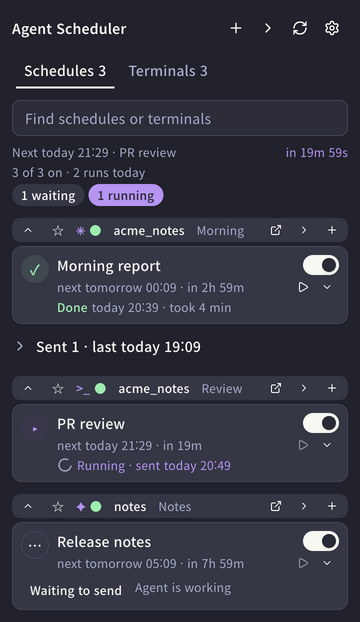
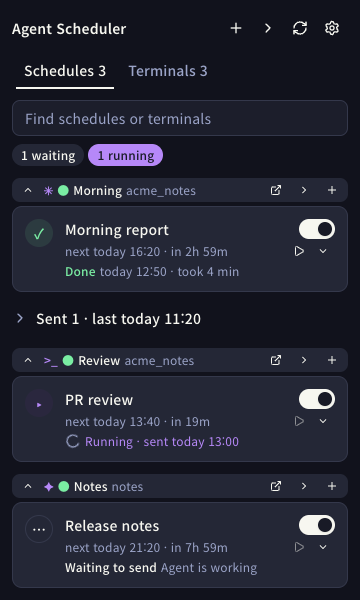
docs: 0.12.11 — README 와 그림을 지금 패널에 맞춤(동작 변화 없음)
- 그림: README 2장과 플러그인 페이지 표지 · 스크린샷 2장이 0.12.1 화면이었다 — 목록 위 글 두 줄(0.12.5 에서 뺌),
  터미널 줄의 ☆(0.12.7 에서 뺌), 작업 폴더를 제목보다 먼저 쓰던 순서(0.12.9 에서 바꿈)가 그대로 보였다.
  장면 open · first · late · korean 을 360px 어두운 테마로 다시 찍고 표지 · 갤러리를 다시 그렸다.
- README 에 빠져 있던 것: 실행 중인 예약은 터미널을 바꿀 수 없음 · 시간 구간은 자정을 넘지 못함 ·
  지난 기록은 최근 30회 · 알림이 나가는 경우 전부 · 스스로 네트워크 요청을 하지 않음 · 제거 명령 · 라이선스 절.
- 표현: 영어 관용 표현 16곳을 쉬운 말로 바꿈. 업데이트 명령이 연달아 두 번 나오던 것을 한 번으로,
  CLI 경로 표기를 한 가지로, `=` 로 붙이는 대상을 「터미널과 프롬프트」로 정정.

코드는 바뀌지 않았다. 시험 196개 · 장면 점검 8개 통과.

diff --git a/README.md b/README.md
@@ -15,9 +15,9 @@ The panel in Orca's right sidebar: schedules grouped by terminal, and the introd
 orca plugin install gook-lab/orca-agent-scheduler
 ```
 
-**macOS only for now**, and Orca 1.4.248 or newer. Prompts go out through the CLI inside the Orca app (`<Orca>.app/Contents/Resources/bin/orca`); on Windows and Linux the plugin does not look for it yet, and the panel says `Orca CLI not found` instead of listing terminals. Orca asks you to approve what the plugin may do before it runs: a worker on your machine that calls the Orca CLI to send prompts, reads terminal output, agent status and your workspaces, keeps its own storage and shows notifications. Updates: `orca plugin update gook-lab.agent-scheduler`.
+**macOS only for now**, and Orca 1.4.248 or newer. Prompts go out through the CLI inside the Orca app (`<Orca>.app/Contents/Resources/bin/orca`); on Windows and Linux the plugin does not look for it yet, and the panel says `Orca CLI not found` instead of listing terminals. Orca asks you to approve what the plugin may do before it runs: a worker on your machine that calls the Orca CLI to send prompts, reads terminal output, agent status and your workspaces, keeps its own storage and shows notifications.
 
-Update with `orca plugin update gook-lab.agent-scheduler`. What each version changed is in the [release notes](https://github.com/gook-lab/orca-agent-scheduler/releases) (each with a summary in Korean) — **What's new** in the panel's Settings opens them — and in [CHANGELOG.md](CHANGELOG.md).
+Update with `orca plugin update gook-lab.agent-scheduler`, and remove it with `orca plugin uninstall gook-lab.agent-scheduler`. What each version changed is in the [release notes](https://github.com/gook-lab/orca-agent-scheduler/releases) (each with a summary in Korean) — **What's new** in the panel's Settings opens them — and in [CHANGELOG.md](CHANGELOG.md).
 
 The panel follows Orca's language: Korean when Orca is in Korean, English otherwise. Settings (the gear at the top) can fix it to English or Korean; the status bar and notifications follow.
 
@@ -26,8 +26,9 @@ The panel follows Orca's language: Korean when Orca is in Korean, English otherw
 A schedule belongs to one terminal you already have open, in any workspace. The terminal list in the form shows only terminals where Orca sees an agent running: the terminal title, then the workspace and the agent. A plain shell is never offered and never sent to. Opened from a terminal line, Edit or Duplicate, the form shows that terminal on one line with **Change**; the list opens only when you press it, and folds again once you pick.
 
 - Orca restarts give terminals new handles. The schedule finds its terminal again by its pane. A terminal that was closed shows as `not open`; the run waits, and you pick another terminal by editing the schedule.
-- Orca now and then drops a working terminal's agent for a second or two. A terminal keeps the agent it was last seen with for two checks (1 minute), so it stays in the list and the form; nothing is sent on that alone — the screen still has to show that agent's input box.
-- **Start a new conversation** (schedules only) sends `/clear` first, then the prompt once the screen settles, so each run starts fresh instead of piling onto the last one. Claude Code, Codex and Gemini CLI all read `/clear` as a new conversation. Turn it on only for a terminal kept for that schedule — `/clear` erases the conversation in it.
+- Orca occasionally drops a working terminal's agent for a second or two. A terminal keeps the agent it was last seen with for two checks (1 minute), so it stays in the list and the form; nothing is sent on that alone — the screen still has to show that agent's input box.
+- **Start a new conversation** (schedules only) sends `/clear` first, then the prompt once the screen settles, so each run starts in a new conversation instead of adding to the last one. Claude Code, Codex and Gemini CLI all read `/clear` as a new conversation. Turn it on only for a terminal kept for that schedule — `/clear` erases the conversation in it.
+- A schedule keeps its terminal while its run is going. The end of a run is read from the terminal the prompt went to, so the form lets you change the terminal once the run has ended; every other field can be edited meanwhile.
 
 ## Sending — idle check, then the Orca CLI
 
@@ -43,13 +44,13 @@ At the set time the run becomes due and is checked every 30 seconds. The prompt 
 
 A run that waits more than 60 minutes is skipped, with the reason it was waiting.
 
-**Send now** (▷ on a card) and **Send once** are asked for by a person who is looking at the terminal. For them the screen has to be still for 5 seconds, not a minute, and a working report from Orca is believed only that long as well: an agent in a turn changes its screen every second or two (its elapsed-time lines tick), while a report whose end never came would keep the run waiting for 3 minutes on a resting terminal. For the first two minutes the run is looked at again every 3 seconds while it waits for something that passes by itself. Text in the input box and a dialog hold it as ever. On a resting terminal the prompt goes out within seconds; behind a working agent, seconds after it stops (Claude Code, 2026-11-18: 5.5 s on a terminal opened a moment ago; 7 s after the end of a turn, both one that wrote an answer and one that ran a 25-second command printing nothing).
+**Send now** (▷ on a card) and **Send once** are asked for by a person who is looking at the terminal. For them the screen has to be still for 5 seconds, not a minute, and a working report from Orca counts only that long as well: an agent in a turn changes its screen every second or two (its elapsed-time lines tick), while a report whose end never came would keep the run waiting for 3 minutes on an idle terminal. For the first two minutes the run is looked at again every 3 seconds while it waits for something that ends by itself. Text in the input box and a dialog still hold it. On an idle terminal the prompt goes out within seconds; behind a working agent, seconds after it stops (Claude Code, 2026-11-18: 5.5 s on a terminal opened a moment ago; 7 s after the end of a turn, both one that wrote an answer and one that ran a 25-second command printing nothing).
 
 What goes wrong on the way is kept to the one run it belongs to:
 
 | When | Then |
 |---|---|
-| A send ends in an error nobody saw the end of (the CLI call threw) | The run is recorded as Failed and is not sent again — typed a second time, the prompt could run twice |
+| A send ends in an error that leaves its outcome unknown (the CLI call threw) | The run is recorded as Failed and is not sent again — typed a second time, the prompt could run twice |
 | One schedule's check throws | It is logged (`<name>: check failed — …`) and tried again at the next check; the schedules after it still go out |
 | The terminal list cannot be read, or comes in a shape this version does not know | Due runs wait, as when the CLI is missing |
 | A CLI call hangs (up to a minute) | One check runs and at most one waits behind it; the 30-second timer does not stack more |
@@ -58,7 +59,7 @@ What goes wrong on the way is kept to the one run it belongs to:
 
 Checks run only while Orca is running and the computer is awake. A run whose time passed meanwhile is not dropped: at the first check after, it goes out once under the same idle check, and its record and a notification say how late (`sent 6 h 2 min late`). Runs missed in between are not replayed — a schedule every 30 minutes sends one prompt after a night asleep, not sixteen. With **Start a new conversation** on, that late run still clears the terminal first.
 
-Sending uses `orca terminal send --terminal=<handle> --text=<prompt> --enter --wait-submit 8`, run from the CLI inside the running Orca app (`<Orca app>/Contents/Resources/bin/orca`; the `orca` on PATH can belong to another copy). The values are joined to their flags with `=`: given apart, a prompt that starts with `--` is read by the CLI as another flag and never reaches the terminal. The plugin API is not used for this because of limits measured on Orca 1.4.255:
+Sending uses `orca terminal send --terminal=<handle> --text=<prompt> --enter --wait-submit 8`, run from the CLI inside the running Orca app (`<Orca>.app/Contents/Resources/bin/orca`; the `orca` on PATH can belong to another copy). The terminal and the prompt are joined to their flags with `=`: given apart, a prompt that starts with `--` is read by the CLI as another flag and never reaches the terminal. The plugin API is not used for this because of limits measured on Orca 1.4.255:
 
 | Plugin API | Measured | So |
 |---|---|---|
@@ -85,7 +86,7 @@ The worker finds that line on the terminal screen — the screen it already read
 
 | Rule | Why |
 |---|---|
-| The agent only prints text | Nothing is written or run for this, so no permission dialog can come of it, and nothing in it depends on which agent it is. Checked live on Claude Code and Codex, including a summary and a link wrapped over several lines; not yet on Gemini CLI |
+| The agent only prints text | Nothing is written or run for this, so it cannot bring up a permission dialog, and nothing in it depends on which agent it is. Checked live on Claude Code and Codex, including a summary and a link wrapped over several lines; not yet on Gemini CLI |
 | `k3f9` is that run's tag | A line an earlier run left on screen is not taken for this one. The sentence itself, echoed in the terminal, says `STATUS` and is not a result |
 | The newest line that reaches `[end]` counts | A line wrapped to the terminal's width is put back together — the summary with spaces, the link without |
 | The line is taken when first seen, and ends the run | The end event may never come, and on a small pane later output pushes the line off the screen before a quiet moment does |
@@ -94,7 +95,7 @@ The worker finds that line on the terminal screen — the screen it already read
 | Only `http` and `https` links are kept, and none with a name before the site (`user@site`) | The panel opens them in the browser, and `https://known.site@other.site/` would read as one site and lead to another. The site is the link, shown in full so you can read where it leads; the start of the path follows as text and wraps |
 | A turn that failed or was stopped stays so | The line sets the status only of a run that ended normally. A run the agent calls `failed` is announced with its summary |
 | A prompt that starts with `/` gets no sentence | It is a command of the agent — text after it would be read as its arguments |
-| No line, no result | The run ends as before (Done, Succeeded…), without a summary, and its record says `No result line on screen` — unless it stopped at a question, where the line was not due yet |
+| Without the line there is no result | The run ends as before (Done, Succeeded…), without a summary, and its record says `No result line on screen` — unless it stopped at a question, where the line was not due yet |
 
 The sentence is in the panel's language. A schedule saved before this option keeps it off until you turn it on in Edit.
 
@@ -103,10 +104,10 @@ The sentence is in the panel's language. A schedule saved before this option kee
 | Field | Choices |
 |---|---|
 | Days | Every day · Weekdays · Weekends · Pick days (Monday first) · Dates on a calendar (up to 12 months ahead) · Cron |
-| Time | Set times (up to 24) or every N minutes (1–720), all day or between two times. Typed as `21:30`, `2130` or `9:30 pm` |
+| Time | Set times (up to 24) or every N minutes (1–720), all day or between two times of the same day (a range that passes midnight is two schedules). Typed as `21:30`, `2130` or `9:30 pm` |
 | Cron | Five fields, or six with a year; several expressions joined by `;` |
 
-× (top right) or Cancel leaves at once when nothing was changed; otherwise it asks before throwing the text away, next to the button pressed. The form shows a summary of what it will do (for example `Weekdays 09:00–18:00, every 30 min`), and under it which clock that is: times are the computer's local time, shown with its zone (`Asia/Seoul, UTC+9`). There is no per-schedule time zone. Where clocks change for summer time, a time that does not exist that night runs an hour later, a time that comes twice runs once, and an every-N-minutes schedule rests through the repeated hour. Create stays off until the form is complete, with the first missing field named above it (name, terminal, time, prompt). After saving, the panel shows the Schedules tab with that terminal's block open. The saved schedule is tinted green for a few seconds. A schedule saved as cron that the form can express reopens in the form.
+× (top right) or Cancel closes the form at once when nothing was changed; otherwise it asks before discarding the text, next to the button pressed. The form shows a summary of what it will do (for example `Weekdays 09:00–18:00, every 30 min`), and under it which clock that is: times are the computer's local time, shown with its zone (`Asia/Seoul, UTC+9`). There is no per-schedule time zone. Where clocks change for summer time, a time that does not exist that night runs an hour later, a time that comes twice runs once, and an every-N-minutes schedule does not run during the repeated hour. Create stays off until the form is complete, with the first missing field named above it (name, terminal, time, prompt). After saving, the panel shows the Schedules tab with that terminal's block open. The saved schedule is tinted green for a few seconds. A schedule saved as cron that the form can express reopens in the form.
 
 ## Screens — side panel laid out like Orca's own sidebars
 
@@ -114,13 +115,13 @@ The calendar icon in the right sidebar opens the **Agent Scheduler** panel. It i
 
 | Part | What it shows and does |
 |---|---|
-| Introduction | The first time the panel opens, three short pages take the place of the list: prompts on a schedule, only when the terminal is free, start from a terminal. Skip or Get started ends it for good; when nothing is scheduled yet, it lands on the Terminals tab. Settings opens it again |
+| Introduction | The first time the panel opens, three short pages take the place of the list: prompts on a schedule, only when the terminal is free, start from a terminal. Skip or Get started closes it, and it does not come back by itself; when nothing is scheduled yet, the panel then opens the Terminals tab. Settings opens it again |
 | Title row | **Agent Scheduler**, then New schedule (+), Send once (›), Reload terminals (a spinner while the list is read) and Settings. Settings and the form keep the same row: their title on the left, × on the right, a line under it |
-| Tabs and search | **Schedules N** and **Terminals N**. Entering Terminals reads the terminal list afresh (the reload button spins meanwhile; what is there stays in sight). The search box under them filters both, by terminal title, workspace, agent or schedule name, and opens a folded block that holds a match; a search that hides everything says so with **Clear search** |
+| Tabs and search | **Schedules N** and **Terminals N**. Entering Terminals reads the terminal list afresh (the reload button spins meanwhile; what is there stays visible). The search box under them filters both, by terminal title, workspace, agent or schedule name, and opens a folded block that holds a match; a search that hides everything says so with **Clear search** |
 | Schedules | Badges for what is out of the ordinary — waiting, running, need attention — and nothing above the list while every schedule is at rest; then one block per terminal. What runs next is on each card and in Orca's status bar, and the switches say what is on. With nothing scheduled, one line and an **Open Terminals** button |
 | Terminal line | The agent's mark (Claude Code ✳, Codex `>_`, Gemini CLI ✦), a green dot while the terminal is open, the terminal's title, then its workspace in grey — the order of the form's terminal list. A block is one terminal with its schedules, not a workspace: the buttons on its line act on that terminal alone. Of the room left for words the shorter of the two keeps its width — the workspace up to a third, the title up to two thirds — and the other takes what is left, ending in … when it runs out. In a block the chevron folds it; a folded block reads `2 schedules · next tomorrow 09:00`. ↗ brings Orca to that terminal (`orca terminal switch`). Then **Send once** — one prompt to this terminal only, apart from its schedules — and **New schedule for this terminal** |
-| Schedule in a block | A card on a filled surface with a line around it, folded until it is opened. At its left a round mark for a glance down the list: what is going on now — running ▸, a person must act !, waiting to send … — else how the last run went — ✓ succeeded or done, ✕ failed, – skipped (grey when the agent's result says there was nothing to do, orange when the run waited 60 minutes and never went out), ? stopped at a question — a dot when it has not run yet, and an empty circle when the schedule is off. Folded, one column beside the mark so every line starts at the same edge: the switch with the name; the next run with the time left (`next today 19:13 · in 2h 33m`) and two buttons, send now (▷) and open (⌄); then how the last run went as a word in the mark's colour with when and how long — in seconds under a minute — (in its place a spinner while a run is going, and `Waiting to send` with the reason while one waits — the last run then opens with the card), and under it — when that run failed, timed out, was stopped, ended at a question or never went out — one line of why, cut where it runs out: what the agent wrote, else what the plugin knows (`Waited 60 min: agent is working`, `Send failed: …`) — a schedule that has not run yet ends after two lines. Opened in place: the result as a badge, what the agent wrote and its link when the schedule asks for a result, how the run's end was seen, the rule (with `/clear` when it clears first), the start of the prompt, **Edit**, **Duplicate** and **Delete**, and the history. **Send now** is one run at a time: it is off while the schedule waits to send or its run is going, and when its terminal is closed, and the tooltip says which. **Delete** asks in the card first, in the buttons' place, with how many past results go with it; Undo then stays for 8 seconds in the deleted schedule's place. A run waiting its turn says `Waiting to send` and the reason, in the same column; an orange warning appears only when a person must act (the same ones counted on top and in the status bar), with the way out beside it — **Pick a terminal**, or **Show this terminal in Orca** to answer a dialog or clear the input box — and both show on a folded card too |
-| Sent records | One-off sends sit folded under their terminal as `Sent N · last today 12:03`. Ones not sent yet are counted apart — `Waiting to send 1 · Sent 2` — so a send stuck on a closed terminal never reads as sent. A new send opens the group and it stays open when that send ends. A finished one shows its result as a schedule's does — how long it took, why it failed, the summary and link. The newest 20 finished ones are kept |
+| Schedule in a block | A card on a filled surface with a line around it, folded until it is opened. At its left a round mark for a glance down the list: what is going on now — running ▸, a person must act !, waiting to send … — else how the last run went — ✓ succeeded or done, ✕ failed, – skipped (grey when the agent's result says there was nothing to do, orange when the run waited 60 minutes and never went out), ? stopped at a question — a dot when it has not run yet, and an empty circle when the schedule is off. Folded, one column beside the mark so every line starts at the same edge: the switch with the name; the next run with the time left (`next today 19:13 · in 2h 33m`) and two buttons, send now (▷) and open (⌄); then how the last run went as a word in the mark's colour with when and how long — in seconds under a minute — (in its place a spinner while a run is going, and `Waiting to send` with the reason while one waits — the last run then opens with the card), and under it — when that run failed, timed out, was stopped, ended at a question or never went out — one line of why, cut where it runs out: what the agent wrote, else what the plugin knows (`Waited 60 min: agent is working`, `Send failed: …`) — a schedule that has not run yet ends after two lines. Opened in place: the result as a badge, what the agent wrote and its link when the schedule asks for a result, how the run's end was seen, the rule (with `/clear` when it clears first), the start of the prompt, **Edit**, **Duplicate** and **Delete**, and the history (the newest 30 runs). **Send now** is one run at a time: it is off while the schedule waits to send or its run is going, and when its terminal is closed, and the tooltip says which. **Delete** asks in the card first, in the buttons' place, with how many past results go with it; Undo then stays for 8 seconds in the deleted schedule's place. A run waiting its turn says `Waiting to send` and the reason, in the same column; an orange warning appears only when a person must act (the same ones counted on top and in the status bar), with the next step beside it — **Pick a terminal**, or **Show this terminal in Orca** to answer a dialog or clear the input box — and both show on a folded card too |
+| Sent records | One-off sends are folded under their terminal as `Sent N · last today 12:03`. Ones not sent yet are counted apart — `Waiting to send 1 · Sent 2` — so a send stuck on a closed terminal never reads as sent. A new send opens the group and it stays open when that send ends. A finished one shows its result as a schedule's does — how long it took, why it failed, the summary and link. The newest 20 finished ones are kept |
 | Terminals | Every open agent terminal, each on the same line as above. With none, it says to run claude, codex or gemini in an Orca terminal, with a reload button (the form's terminal picker says the same). When the worker found no Orca CLI it says that instead, since no terminal could show up. A terminal with schedules shows `Schedules N`; pressing it opens that block on the Schedules tab |
 | Settings | Language (same as Orca, English or Korean); **How sending works** — the rule for sending (checked every 30 seconds; nothing new for a minute with an empty input box; skipped after 60 minutes of waiting); Show the introduction again; **What's new**, which opens the release notes; and Import from OrcaCron when that app's schedules are on this computer |
 
@@ -140,7 +141,7 @@ The status bar shows the next run, and turns orange with a count when a schedule
 
 On a computer where the menubar app [OrcaCron](https://github.com/gook-lab/orca-cron) has schedules (`~/.orca-cron/schedules.json`, or under `ORCA_CRON_HOME`), Settings lists them with **Import N schedules**. Anywhere else Settings shows nothing about it.
 
-- What comes over: the name, the times (the same cron), the terminal, **Start a new conversation**, and what to send — the app's own message for a task file or a typed prompt, without its closing "run the finish command". **Ask for a one-line result** takes that command's place.
+- What is imported: the name, the times (the same cron), the terminal, **Start a new conversation**, and what to send — the app's own message for a task file or a typed prompt, without its closing "run the finish command". **Ask for a one-line result** takes that command's place.
 - What stays in the app: run state, history, one-off sends, and its limit for skipping a late run (here a late run goes out once, marked late).
 - Imported schedules arrive **switched off**. Turn each one off in OrcaCron, then on here — while both are on, the prompt goes out twice.
 - The terminal is matched by its handle, or by tab and pane after Orca restarted. One that is not open shows as `not open`; pick it again in Edit.
@@ -154,9 +155,9 @@ On a computer where the menubar app [OrcaCron](https://github.com/gook-lab/orca-
 | `agent:read` | Agent status events for the end |
 | `workspace:read` | Workspace names in the terminal menu |
 | `storage:own` | Schedules and the language setting |
-| `notifications:show` | Answers needed, failures |
+| `notifications:show` | A run that needs a person, one that failed, was stopped, timed out or was skipped after 60 minutes, and one sent late |
 
-Sending, showing a terminal and the terminal list go through the Orca CLI, so they do not appear as permissions. The worker runs as a trusted Node process under your account, as the approval text says, which is what lets it run the CLI. The same access reads `~/.orca-cron/schedules.json` for Import from OrcaCron; the worker reads and writes no other file.
+Sending, showing a terminal and the terminal list go through the Orca CLI, so they do not appear as permissions. The worker runs as a trusted Node process under your account, as the approval text says, which is what lets it run the CLI. The same access reads `~/.orca-cron/schedules.json` for Import from OrcaCron; the worker reads and writes no other file. The plugin makes no network request of its own; a result link and **What's new** open in your browser only when you press them.
 
 ## Development — orca plugin test · check
 
@@ -194,3 +195,7 @@ git tag -a "v$V" -m "v$V" && git push origin main "v$V"
 awk -v v="$V" '$0 ~ "^## " v " " { on = 1; next } /^## / { on = 0 } on' CHANGELOG.md > notes.md
 gh release create "v$V" --title "v$V" --notes-file notes.md   # notes.md is not kept in the repository
 ```
+
+## License — MIT
+
+MIT — see [LICENSE](LICENSE).

diff --git a/CHANGELOG.md b/CHANGELOG.md
@@ -2,6 +2,14 @@
 
 Versions are tags (`vX.Y.Z`); `orca plugin update gook-lab.agent-scheduler` moves to the newest one. Each version's notes are also a [release](https://github.com/gook-lab/orca-agent-scheduler/releases), with a summary in Korean.
 
+## 0.12.11 — 2026-11-19
+
+The README and the pictures are brought up to date. No change in behaviour.
+
+- **The pictures show the panel as it is now.** The two in the README and the plugin page's cover and screenshots were those of 0.12.1: they still showed the two lines above the list (removed in 0.12.5), the ☆ on every terminal line (removed in 0.12.7) and the workspace ahead of the terminal's title (reversed in 0.12.9).
+- **README states what it had left out.** A schedule keeps its terminal while its run is going. A time range stays within one day — one that passes midnight is two schedules. A schedule's history is its newest 30 runs. Permissions lists every case that shows a notification, and says that the plugin makes no network request of its own. `orca plugin uninstall` stands beside the update command, and the licence has its own line.
+- **Plainer wording.** Sixteen idioms are replaced (`now and then` → `occasionally`, `as ever` → `still`, `the way out` → `the next step`), the update command is given once instead of twice, and the CLI's path is written one way.
+
 ## 0.12.10 — 2026-11-18
 
 Orange is for a run a person may want to look at.
